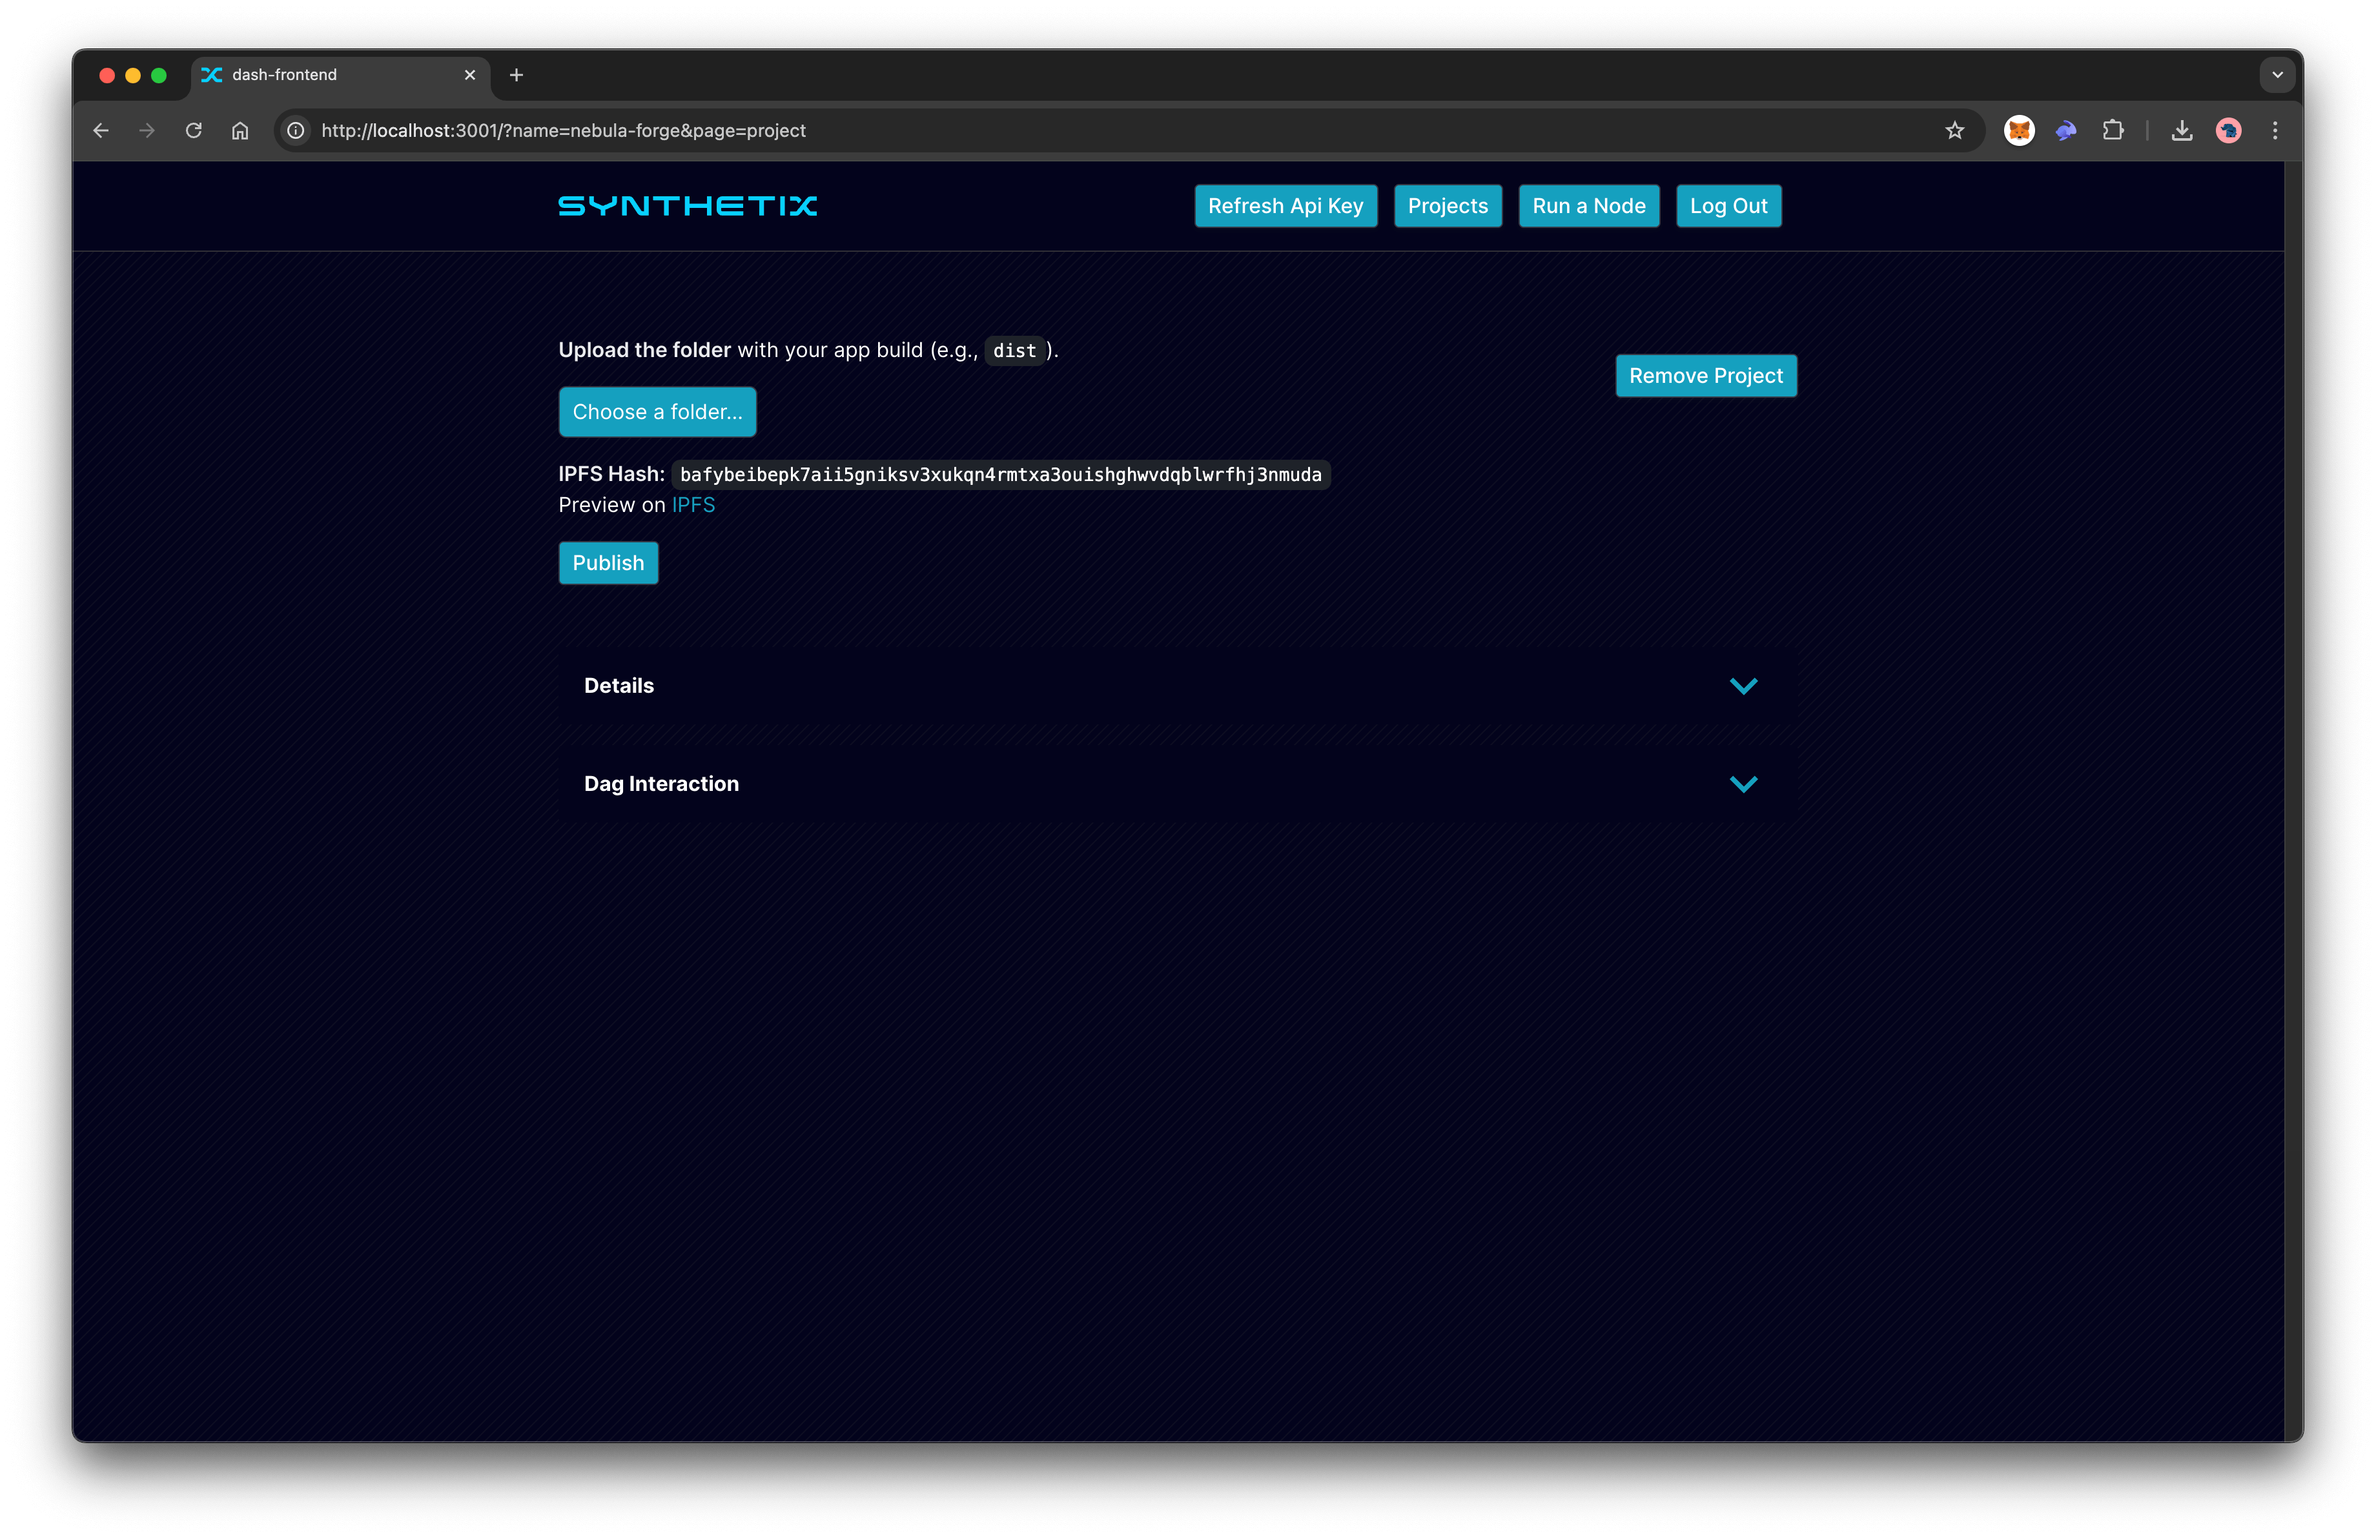
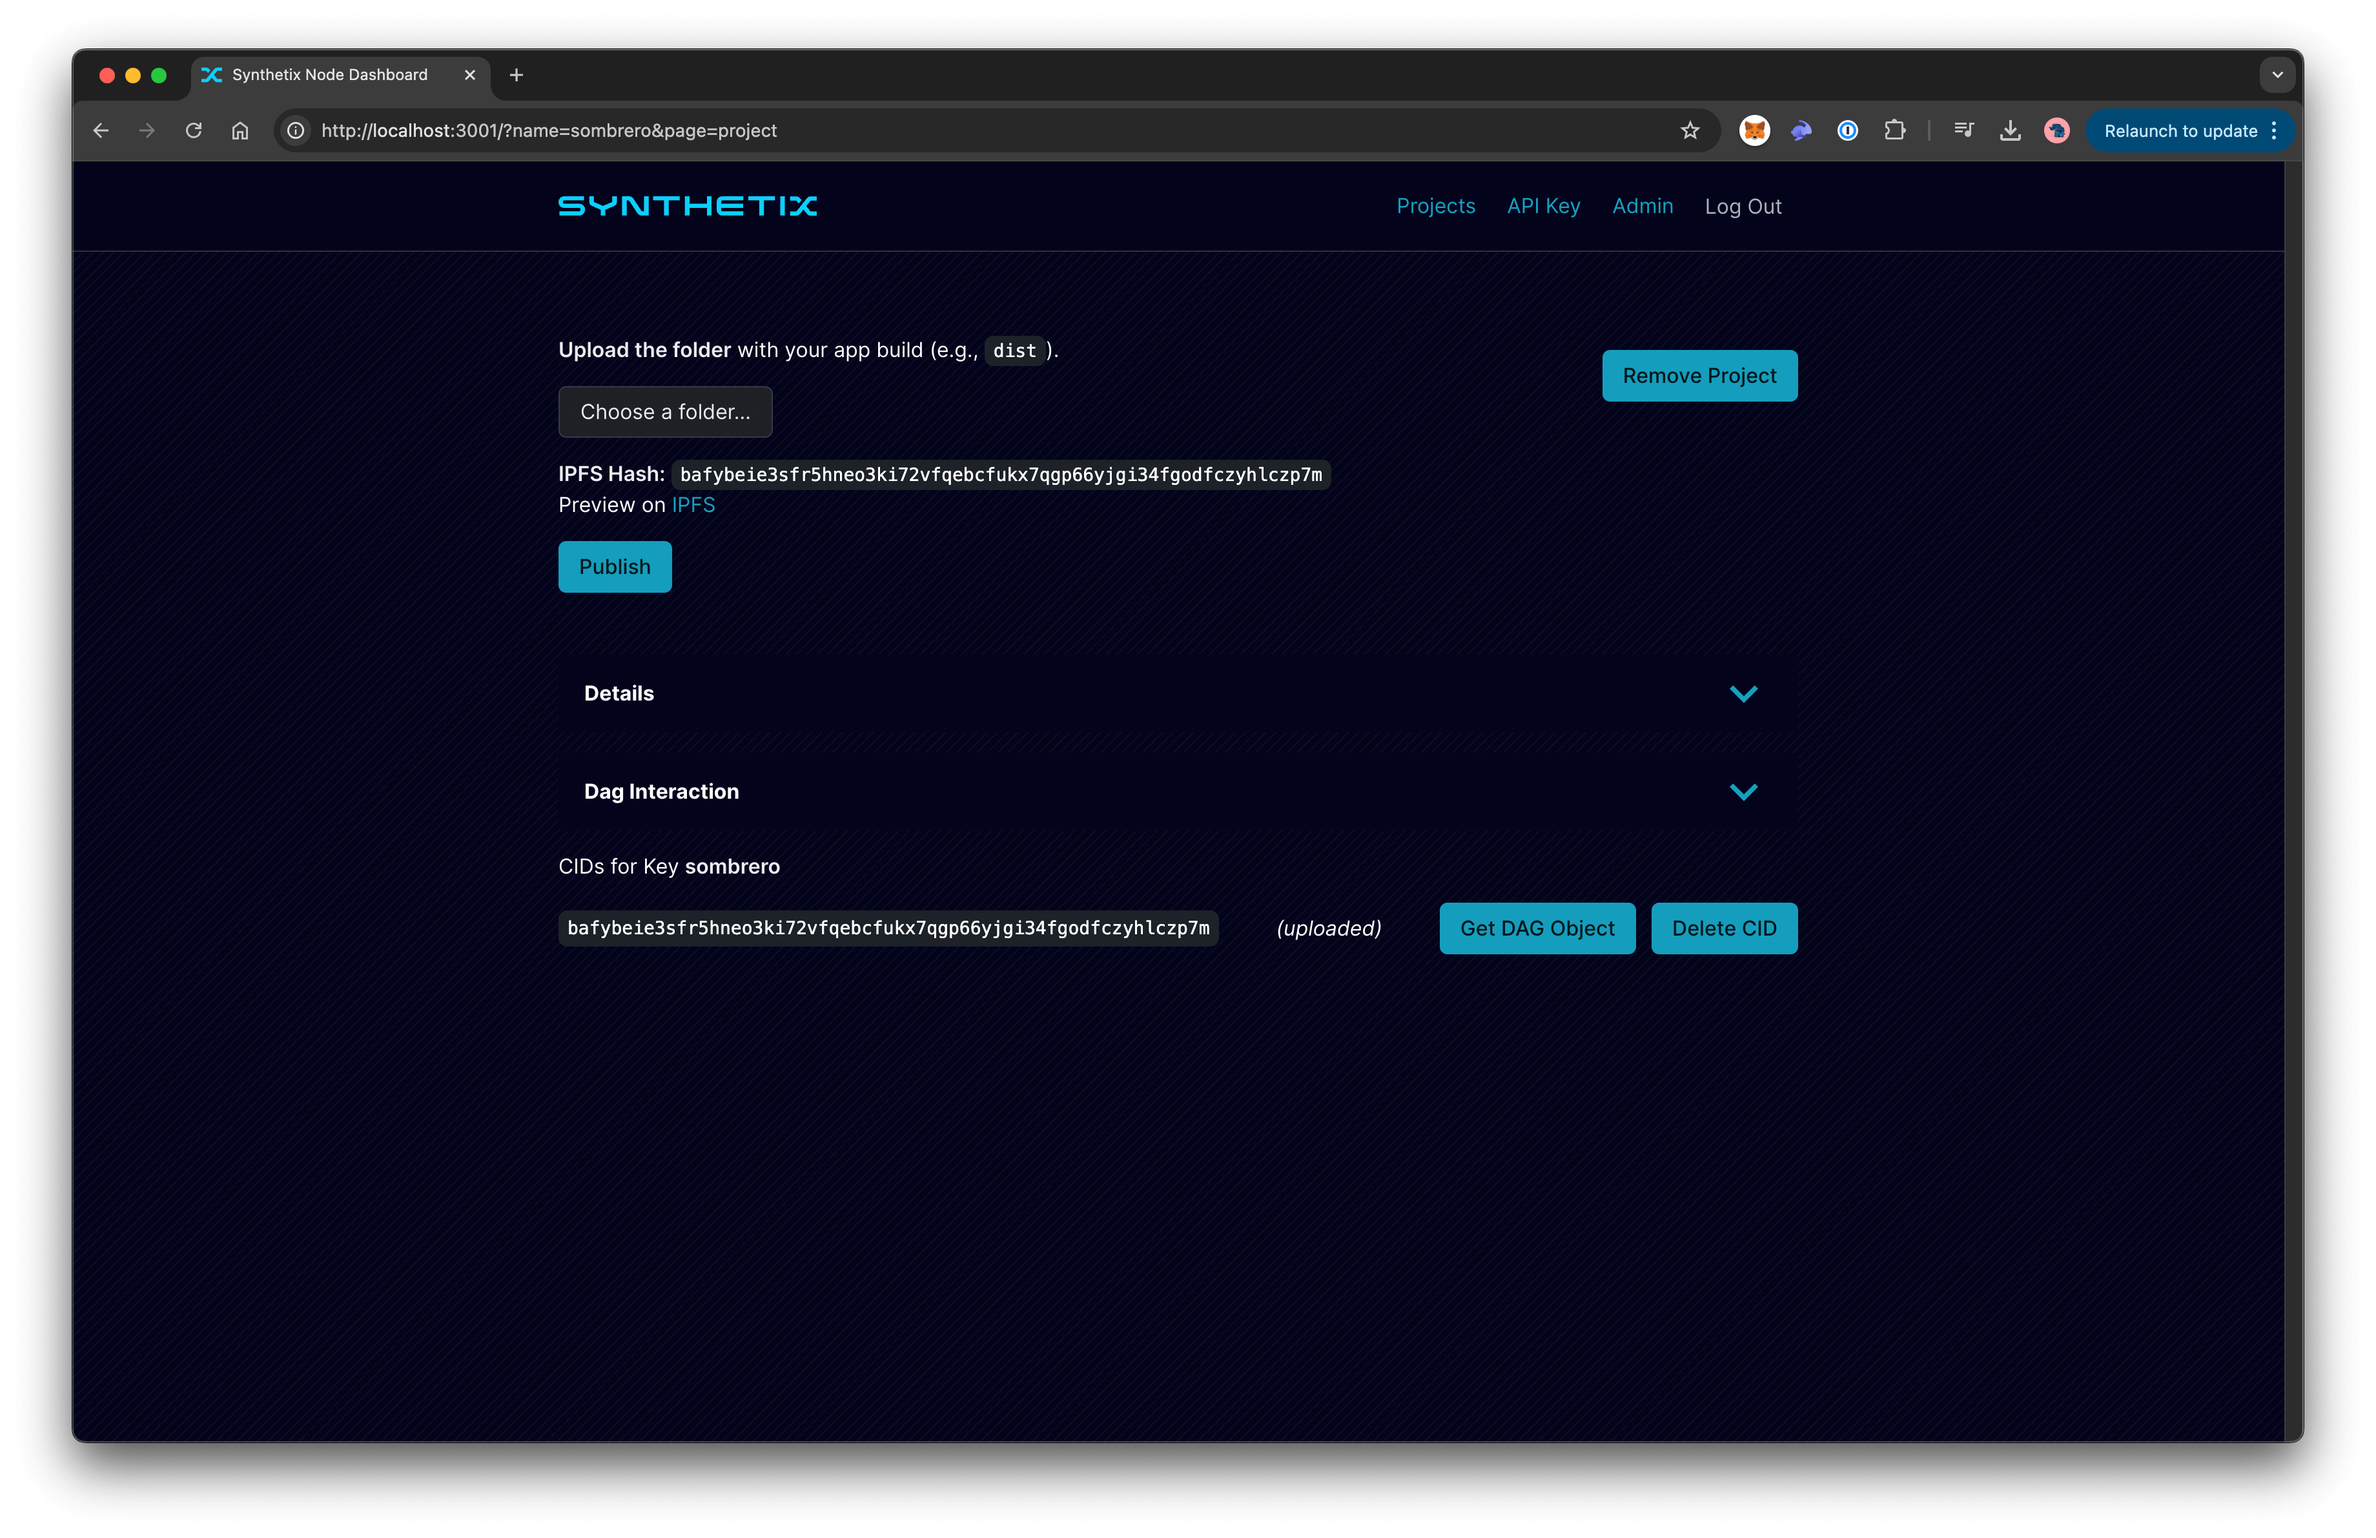
Update screenshots

diff --git a/README.md b/README.md
@@ -62,6 +62,9 @@ Click on the project name to manage it:
 2. IPFS will:
     - Automatically import the folder's contents.
     - Pin the data for distribution.
+3. A list of CIDs for this project:
+    - Delete CID.
+    - Retrieve data by CID.
 
 #### Publish
 After uploading:
